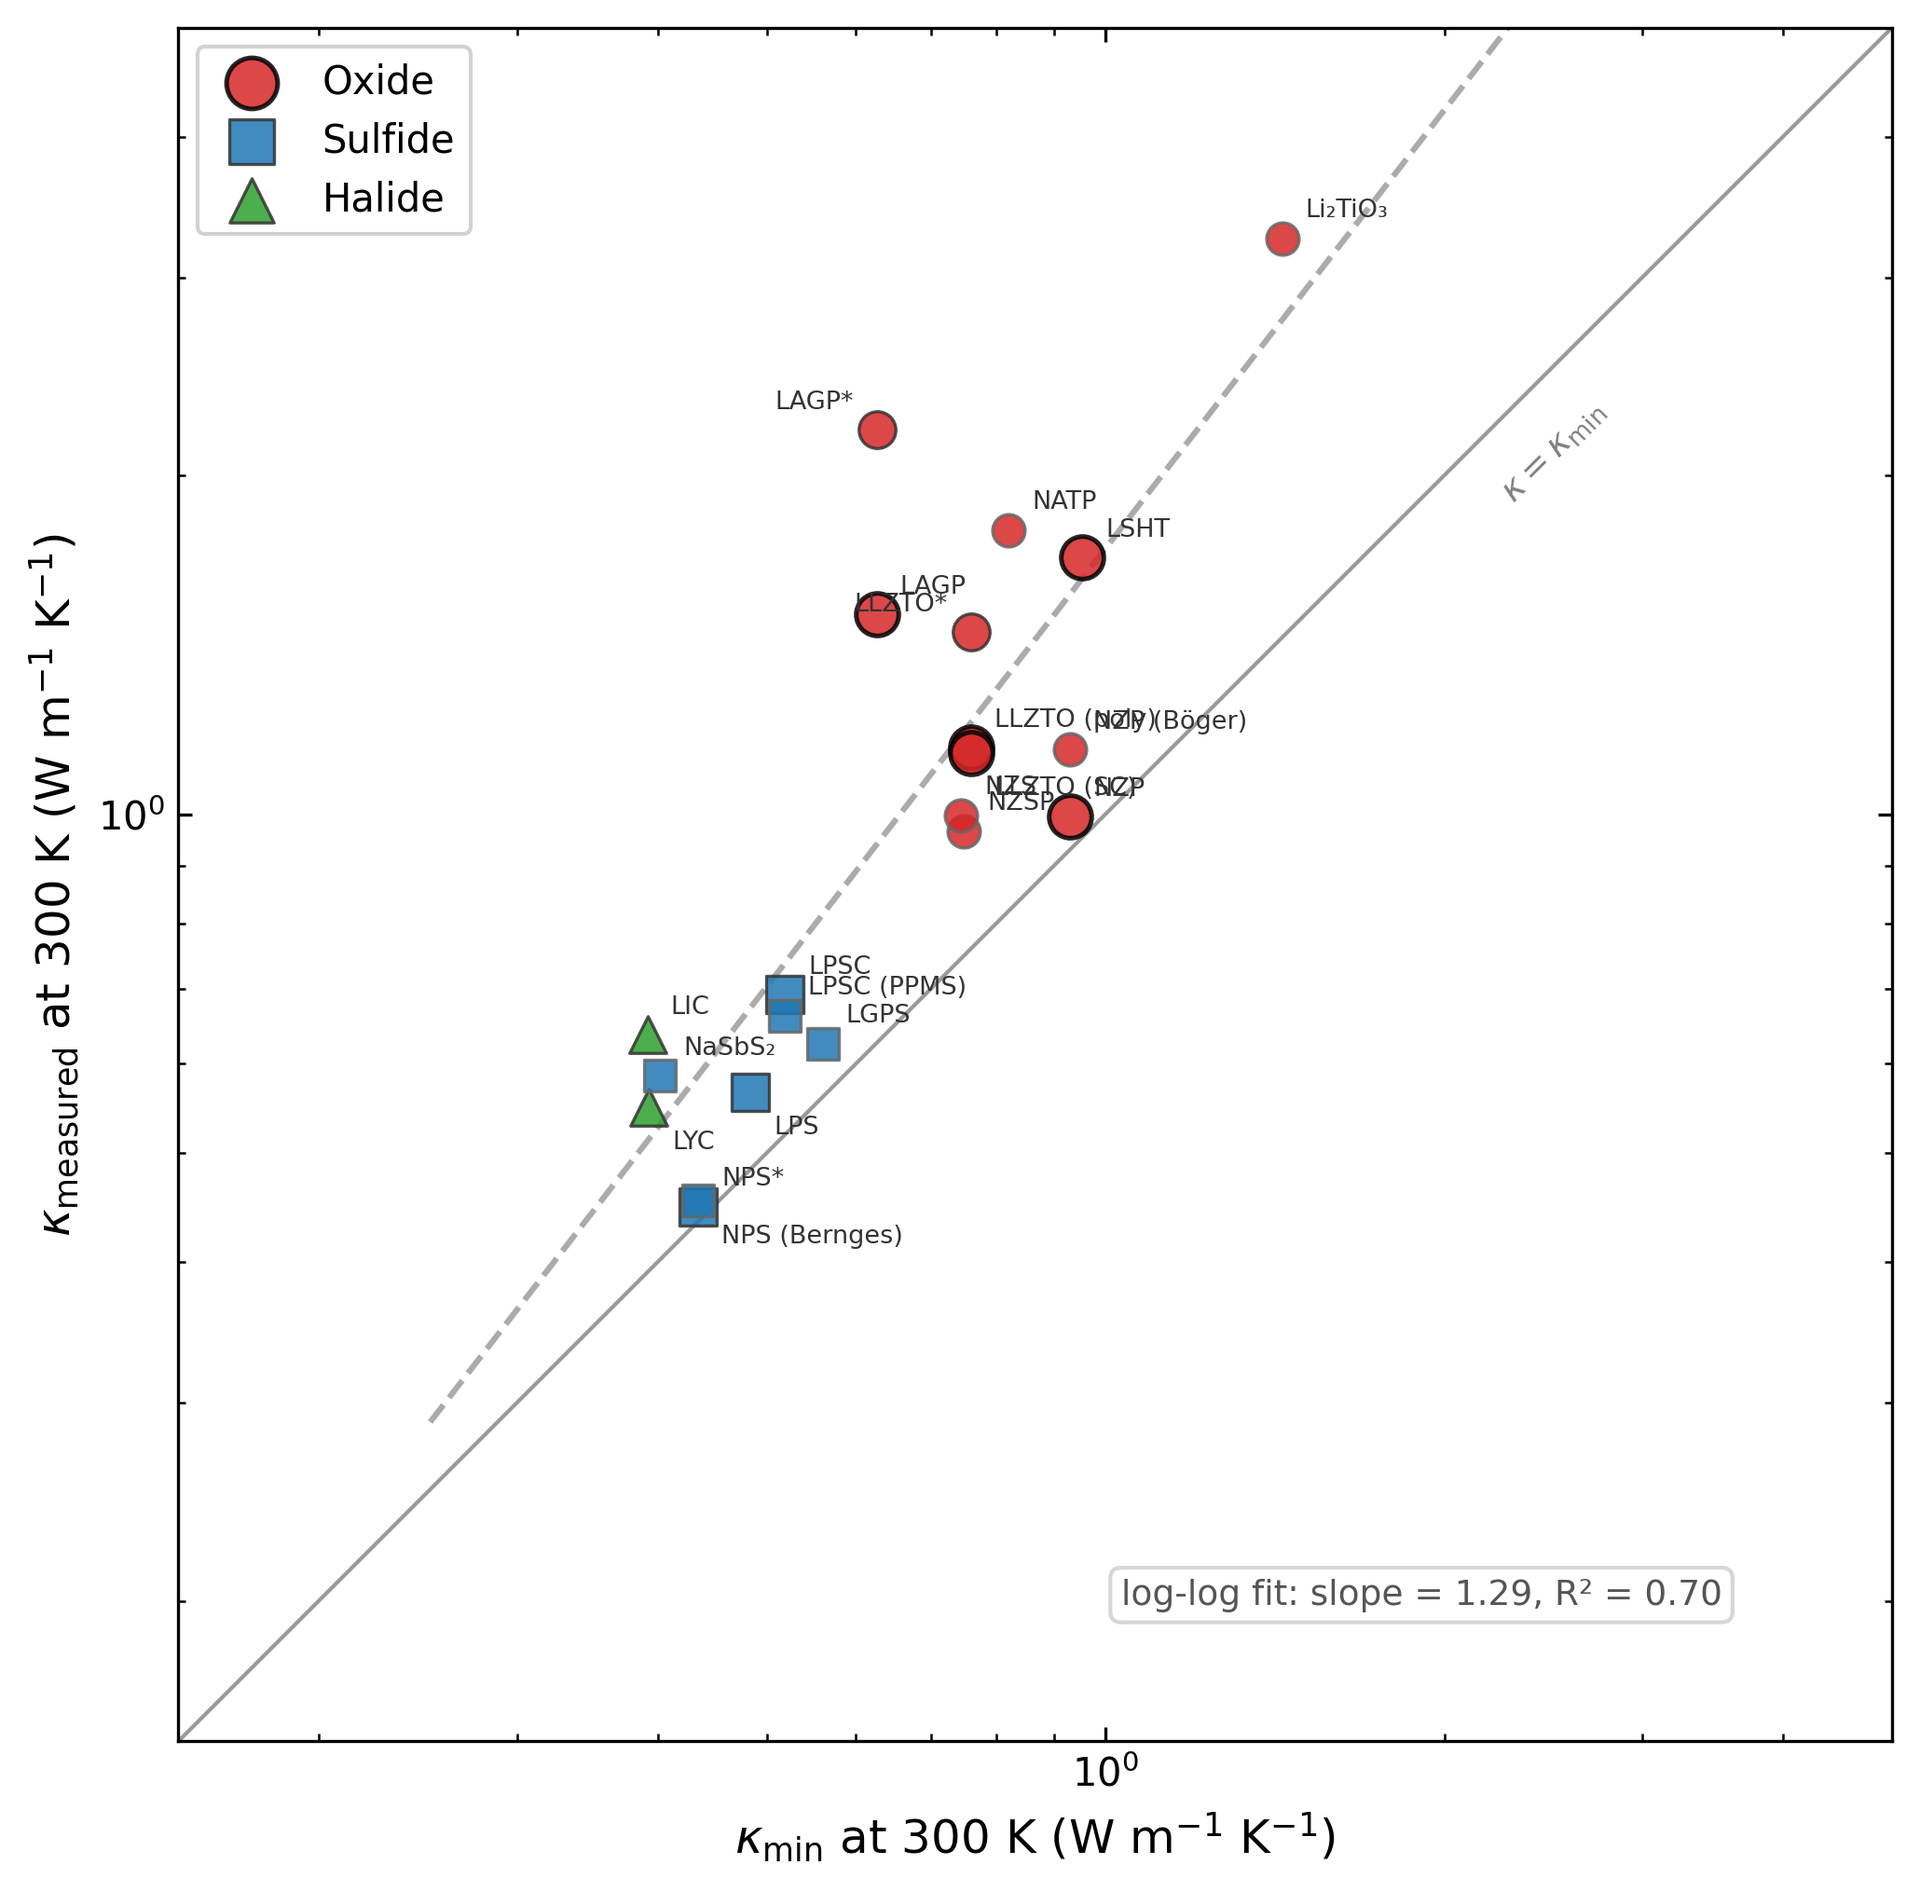
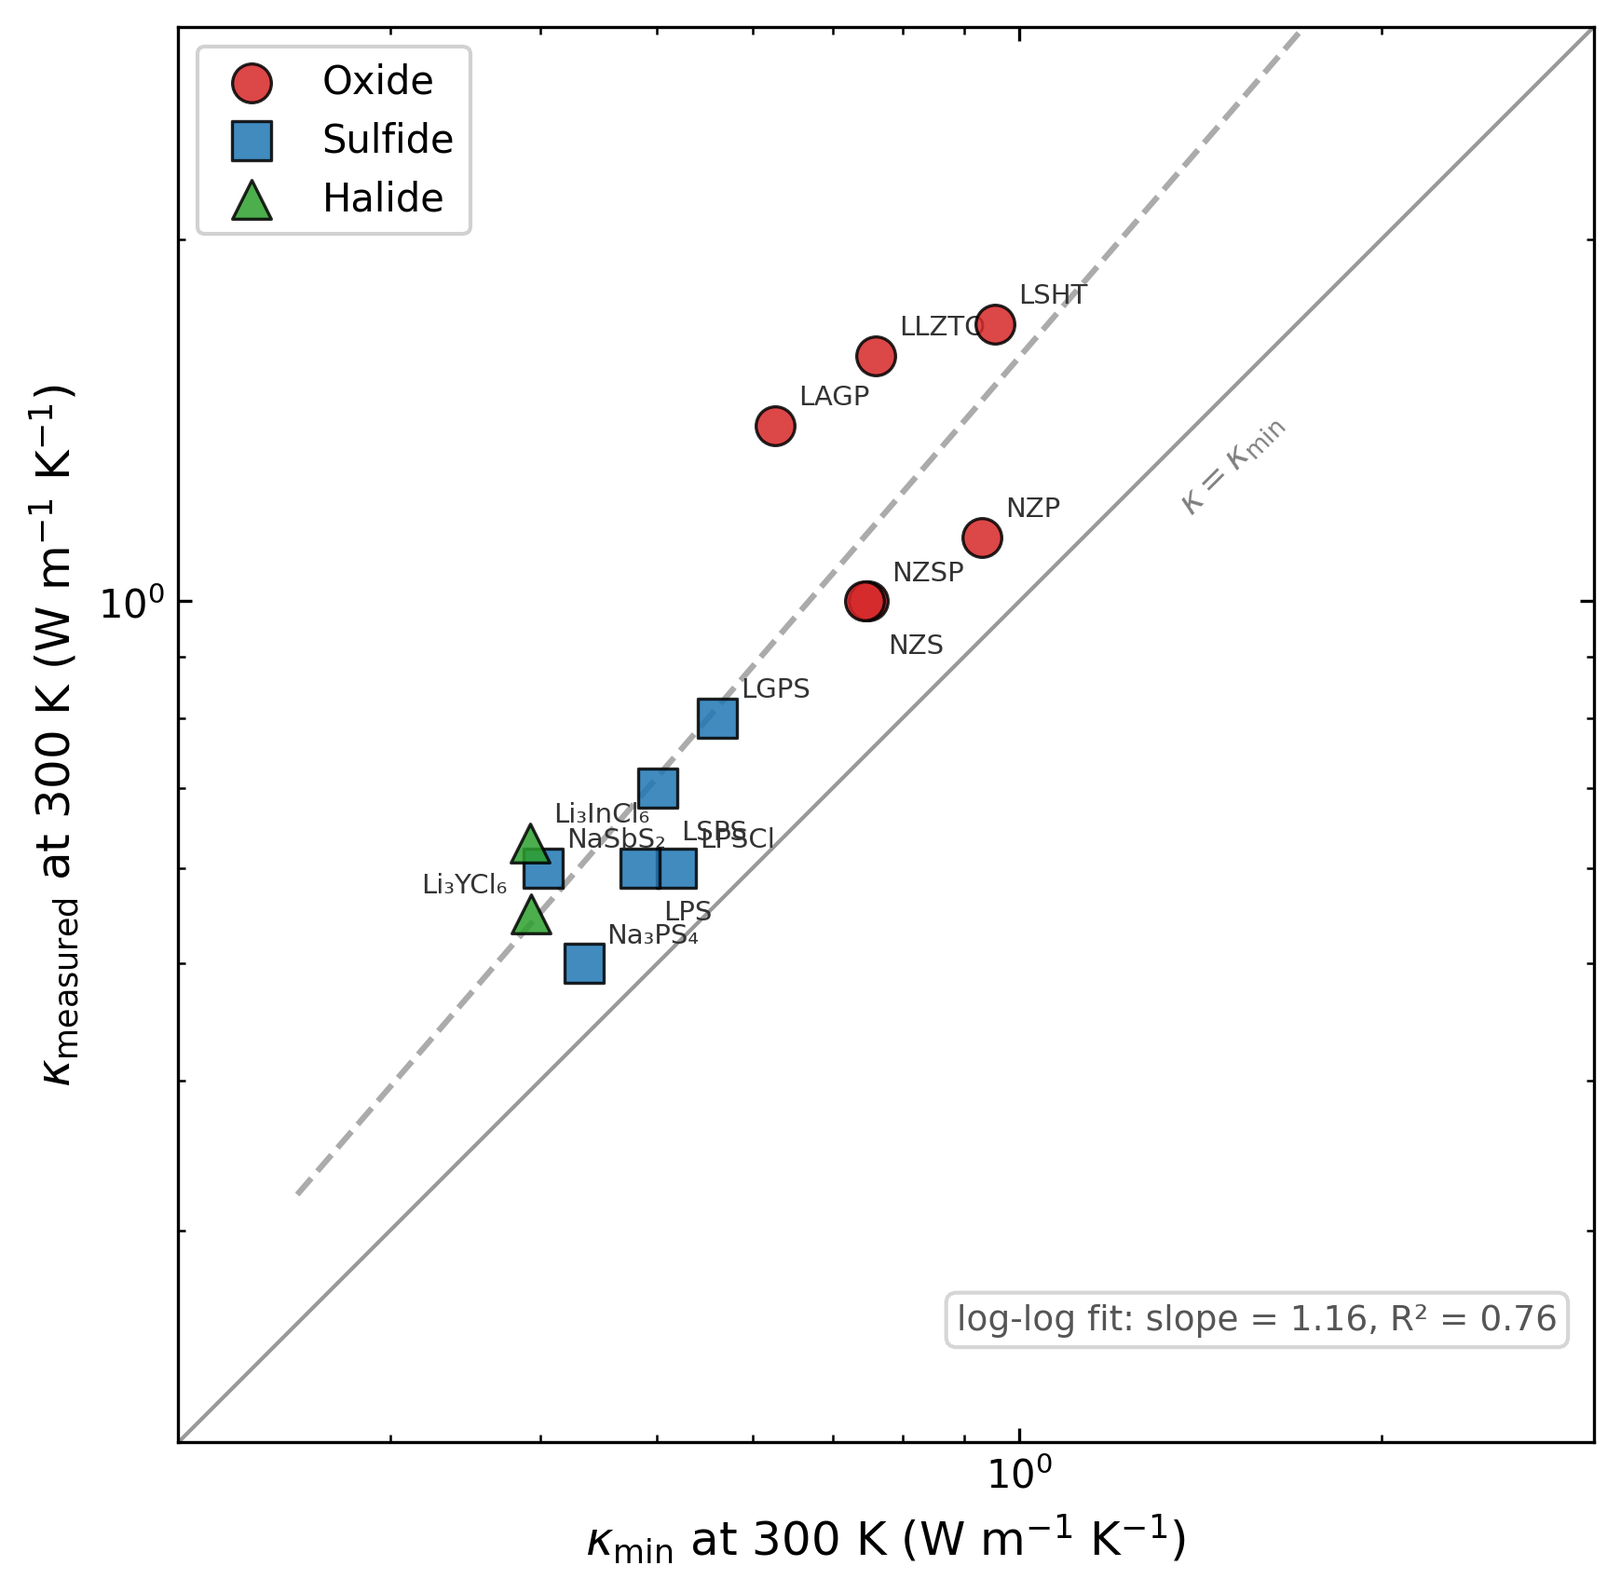
Fix κ_min vs κ_measured plot for paper consistency
Issues fixed (flagged by researcher agent):
- Use authoritative paper table values (ver7_AIP_APR.tex Table I)
  instead of CSV interpolation
- Remove duplicate entries (was: NZP + NZP Böger, LPSC + LPSC PPMS,
  NPS + NPS Bernges) → one entry per material
- Consistent naming with paper table format
- 14 materials (6 oxide, 6 sulfide, 2 halide)

Updated results:
- R² = 0.76 (improved from 0.70 with cleaner data)
- Slope = 1.16 (all materials above κ_min)
- Na₃PS₄ closest to glass limit (ratio 1.15)
- LAGP furthest above (ratio 2.24)

diff --git a/examples/kappa_min_vs_kappa_300K.py b/examples/kappa_min_vs_kappa_300K.py
@@ -4,6 +4,9 @@
 
 Recreates Figure 6 from Cheng et al., Small 17, 2101693 (2021),
 extended with additional oxide/sulfide/halide solid electrolyte data.
+
+κ_measured values are from the authoritative paper table (ver7_AIP_APR.tex)
+to ensure figure-table consistency for peer review.
 """
 
 import sys
@@ -21,19 +24,8 @@ from scipy import stats
 from MatSciKit_COSMOTIM.thermal_conductivity import cahill
 from MatSciKit_COSMOTIM.structure.material import estimate_debye_temperature, estimate_n_density
 
-DATA = Path("/Users/cosmotim/Documents/SE thermal review")
-EXPORT = DATA / "TC of SE/TTO Plot/Export_Data"
-CHENG = DATA / "Data"
 
-
-def interp_300K(T, kappa):
-    """Interpolate κ at 300 K."""
-    idx = np.argsort(T)
-    T, kappa = T[idx], kappa[idx]
-    return float(np.interp(300, T, kappa))
-
-
-def kmin_300K(density, avg_mass, v_avg, theta_D=None, V=None, N=None, M_amu=None):
+def kmin_300K(density, avg_mass, v_avg, theta_D=None, V=None, N=None):
     """Compute Cahill κ_min at 300 K."""
     if V is not None:
         n = N / V
@@ -44,149 +36,105 @@ def kmin_300K(density, avg_mass, v_avg, theta_D=None, V=None, N=None, M_amu=None
     return cahill.minimum_tc(300.0, n, theta, v_avg)
 
 
-def load_kappa_300(filepath, col_T=0, col_k=1):
-    """Load CSV and interpolate at 300 K."""
-    data = np.loadtxt(str(filepath), delimiter=',')
-    return interp_300K(data[:, col_T], data[:, col_k])
-
-
 # ═══════════════════════════════════════════════════════════════════════
-# Material database: name, category, source, κ_measured(300K), κ_min params
+# Material database — authoritative κ_measured values from paper table
+# (ver7_AIP_APR.tex, Table I)
 # ═══════════════════════════════════════════════════════════════════════
 
 materials = []
 
-def add(name, cat, source, kappa_meas, density, avg_mass, v_avg, theta_D=None, **kw):
+def add(name, cat, kappa_meas, ref, density, avg_mass, v_avg,
+        theta_D=None, **kw):
     km = kmin_300K(density, avg_mass, v_avg, theta_D, **kw)
-    materials.append({'name': name, 'category': cat, 'source': source,
-                      'kappa_meas': kappa_meas, 'kappa_min': km})
+    materials.append({
+        'name': name, 'category': cat, 'kappa_meas': kappa_meas,
+        'kappa_min': km, 'ref': ref,
+    })
 
 
-# ─── Our data (PPMS/LFA) ───────────────────────────────────────────────
+# ─── Oxides ─────────────────────────────────────────────────────────────
 
-# LSHT (from Pipeline 1 fit)
+# LAGP — Rohde 2020
+add('LAGP', 'oxide', 1.4, 'Rohde 2020',
+    density=3090, avg_mass=28.95, v_avg=2430)
+
+# NZP — Böger 2023
+add('NZP', 'oxide', 1.13, 'Böger 2023',
+    density=3800, avg_mass=24.46, v_avg=2900)
+
+# NZSP — Wang 2025
+add('NZSP', 'oxide', 1.0, 'Wang 2025',
+    density=3400, avg_mass=28.0, v_avg=2700)
+
+# NZS — Böger 2023
+add('NZS', 'oxide', 1.0, 'Böger 2023',
+    density=3300, avg_mass=26.0, v_avg=2600)
+
+# LLZTO — Wang 2025 (SC, intrinsic)
+add('LLZTO', 'oxide', 1.6, 'Wang 2025',
+    density=5100, avg_mass=37.87, v_avg=2550)
+
+# LSHT — Wang 2025 (our PRX Energy paper)
 V_lsht = 3.98e-10 ** 3
 N_lsht = 3/8 + 7/16 + 1/4 + 3/4 + 3
-M_lsht = 6.941*3/8 + 87.62*7/16 + 178.49*1/4 + 180.95*3/4 + 15.999*3
-add('LSHT', 'oxide', 'This work',
-    load_kappa_300(EXPORT / 'LSHT_LFA.csv'),
-    None, None, 3461.3, 437.14, V=V_lsht, N=N_lsht)
+add('LSHT', 'oxide', 1.7, 'Wang 2025',
+    density=None, avg_mass=None, v_avg=3461.3, theta_D=437.14,
+    V=V_lsht, N=N_lsht)
 
-# LAGP (our LFA)
-add('LAGP', 'oxide', 'This work',
-    load_kappa_300(EXPORT / 'LAGP_LFA.csv'),
-    3090, 28.95, 2430)
+# ─── Sulfides ───────────────────────────────────────────────────────────
 
-# NZP (our LFA)
-add('NZP', 'oxide', 'This work',
-    load_kappa_300(EXPORT / 'NZP_LFA.csv'),
-    3800, 24.46, 2900)
+# LGPS — Böger 2023
+add('LGPS', 'sulfide', 0.8, 'Böger 2023',
+    density=2900, avg_mass=24.32, v_avg=2000)
 
-# LLZTO poly (our LFA)
-add('LLZTO (poly)', 'oxide', 'This work',
-    load_kappa_300(EXPORT / 'LLZTO poly_LFA.csv'),
-    5100, 37.87, 2550)
+# Li₁₀SnP₂S₁₂ — Bron 2013
+add('LSPS', 'sulfide', 0.7, 'Bron 2013',
+    density=2700, avg_mass=25.0, v_avg=1900)
 
-# LLZTO SC (our LFA)
-add('LLZTO (SC)', 'oxide', 'This work',
-    load_kappa_300(EXPORT / 'LLZTO SC_LFA.csv'),
-    5100, 37.87, 2550)
+# LPSCl — Böger 2023
+add('LPSCl', 'sulfide', 0.6, 'Böger 2023',
+    density=2400, avg_mass=26.05, v_avg=2200)
 
-# ─── Cheng et al. (TDTR) ───────────────────────────────────────────────
+# 3(Li₂S)-P₂S₅ — Cheng 2021
+add('LPS', 'sulfide', 0.6, 'Cheng 2021',
+    density=1900, avg_mass=20.0, v_avg=2000)
 
-add('LAGP*', 'oxide', 'Cheng 2021',
-    load_kappa_300(CHENG / 'LAGP_Cheng.csv'),
-    3090, 28.95, 2430)
+# Na₃PS₄ — Cheng/Bernges
+add('Na₃PS₄', 'sulfide', 0.5, 'Cheng/Bernges',
+    density=2500, avg_mass=28.78, v_avg=1900)
 
-add('LLZTO*', 'oxide', 'Cheng 2021',
-    load_kappa_300(CHENG / 'LLZTO_ZheCheng.csv'),
-    5100, 37.87, 2550)
+# NaSbS₂ — Gunatilleke 2023
+add('NaSbS₂', 'sulfide', 0.6, 'Gunatilleke 2023',
+    density=4200, avg_mass=38.43, v_avg=1500)
 
-add('LPSC', 'sulfide', 'Cheng 2021',
-    load_kappa_300(CHENG / 'LPSC_ZheCheng.csv'),
-    2400, 26.05, 2200)
+# ─── Halides ────────────────────────────────────────────────────────────
 
-add('LPS', 'sulfide', 'Cheng 2021',
-    load_kappa_300(CHENG / 'LPS_ZheCheng.csv'),
-    1900, 20.0, 2000)
+# Li₃InCl₆ — Cheng 2021
+add('Li₃InCl₆', 'halide', 0.63, 'Cheng 2021',
+    density=2700, avg_mass=33.62, v_avg=1800)
 
-add('NPS*', 'sulfide', 'Cheng 2021',
-    load_kappa_300(CHENG / 'NPS_ZheCheng.csv'),
-    2500, 28.78, 1900)
-
-add('LIC', 'halide', 'Cheng 2021',
-    load_kappa_300(CHENG / 'LIC.csv'),
-    2700, 33.62, 1800)
-
-add('LYC', 'halide', 'Cheng 2021',
-    load_kappa_300(CHENG / 'LYC.csv'),
-    2600, 32.26, 1800)
-
-# ─── Other literature data ─────────────────────────────────────────────
-
-# LGPS
-add('LGPS', 'sulfide', 'Literature',
-    load_kappa_300(CHENG / 'LGPS.csv'),
-    2900, 24.32, 2000)
-
-# LPSC (our PPMS)
-add('LPSC (PPMS)', 'sulfide', 'Literature',
-    load_kappa_300(CHENG / 'LPSC.csv'),
-    2400, 26.05, 2200)
-
-# NPS (Bernges)
-add('NPS (Bernges)', 'sulfide', 'Literature',
-    load_kappa_300(CHENG / 'NPS_Bernges.csv'),
-    2500, 28.78, 1900)
-
-# NZSP
-add('NZSP', 'oxide', 'Literature',
-    load_kappa_300(CHENG / 'NZSP.csv'),
-    3400, 28.0, 2700)
-
-# NATP (NaTi₂(PO₄)₃)
-add('NATP', 'oxide', 'Literature',
-    load_kappa_300(CHENG / 'NATP.csv'),
-    3200, 24.0, 2800)
-
-# Li₂TiO₃
-add('Li₂TiO₃', 'oxide', 'Literature',
-    load_kappa_300(CHENG / 'Li2TiO3.csv'),
-    3430, 16.35, 4000)
-
-# NaSbS₂
-add('NaSbS₂', 'sulfide', 'Literature',
-    load_kappa_300(CHENG / 'NaSbS2.csv'),
-    4200, 38.43, 1500)
-
-# NZP (Boger)
-add('NZP (Böger)', 'oxide', 'Literature',
-    load_kappa_300(CHENG / 'NZP_Boger.csv'),
-    3800, 24.46, 2900)
-
-# NZS (Boger) — Na₄Zr₂(SiO₄)₃
-add('NZS', 'oxide', 'Literature',
-    load_kappa_300(CHENG / 'NZS_Boger.csv'),
-    3300, 26.0, 2600)
+# Li₃YCl₆ — Cheng 2021
+add('Li₃YCl₆', 'halide', 0.55, 'Cheng 2021',
+    density=2600, avg_mass=32.26, v_avg=1800)
 
 
 # ═══════════════════════════════════════════════════════════════════════
 # Print results table
 # ═══════════════════════════════════════════════════════════════════════
 
-print(f"\n{'Material':20s} {'Category':10s} {'Source':15s} {'κ_min':>8s} {'κ_meas':>8s} {'Ratio':>6s}")
+print(f"\n{'Material':15s} {'Category':10s} {'Reference':20s} {'κ_min':>8s} {'κ_meas':>8s} {'Ratio':>6s}")
 print('-' * 72)
 for m in sorted(materials, key=lambda x: x['kappa_meas']/x['kappa_min']):
     ratio = m['kappa_meas'] / m['kappa_min']
-    print(f"{m['name']:20s} {m['category']:10s} {m['source']:15s} "
-          f"{m['kappa_min']:8.3f} {m['kappa_meas']:8.3f} {ratio:6.2f}")
+    print(f"{m['name']:15s} {m['category']:10s} {m['ref']:20s} "
+          f"{m['kappa_min']:8.3f} {m['kappa_meas']:8.2f} {ratio:6.2f}")
 
 
 # ═══════════════════════════════════════════════════════════════════════
 # Plot
 # ═══════════════════════════════════════════════════════════════════════
 
-fig, ax = plt.subplots(figsize=(7, 7))
+fig, ax = plt.subplots(figsize=(6, 6))
 
 # Diagonal: κ_meas = κ_min
 diag = np.linspace(0.1, 10, 100)
@@ -199,35 +147,30 @@ cat_style = {
     'halide':  {'color': '#2ca02c', 'marker': '^', 'label': 'Halide'},
 }
 
-# Marker size by source
-size_map = {'This work': 120, 'Cheng 2021': 90, 'Literature': 70}
-edge_map = {'This work': 'black', 'Cheng 2021': '#333', 'Literature': '#666'}
-
-# Plot each point
 plotted_cats = set()
 for m in materials:
     cs = cat_style[m['category']]
-    sz = size_map.get(m['source'], 70)
-    ec = edge_map.get(m['source'], 'gray')
-    lw = 1.2 if m['source'] == 'This work' else 0.8
 
     label = cs['label'] if m['category'] not in plotted_cats else None
     plotted_cats.add(m['category'])
 
     ax.scatter(m['kappa_min'], m['kappa_meas'], zorder=3,
-               c=cs['color'], marker=cs['marker'], edgecolors=ec,
-               s=sz, linewidths=lw, label=label, alpha=0.85)
+               c=cs['color'], marker=cs['marker'], edgecolors='black',
+               s=100, linewidths=0.8, label=label, alpha=0.85)
 
-    # Label
+    # Label positioning
     ha, va, ox, oy = 'left', 'bottom', 6, 4
-    if m['name'] in ('LLZTO (SC)', 'LYC', 'NPS (Bernges)', 'LPS'):
-        va, oy = 'top', -6
-    if m['name'] in ('LAGP*', 'LLZTO*'):
+    # Avoid overlaps
+    if m['name'] in ('NZS', 'LPS'):
+        va, oy = 'top', -8
+    if m['name'] in ('Li₃YCl₆',):
         ha, ox = 'right', -6
+    if m['name'] in ('LSPS',):
+        va, oy = 'top', -8
 
     ax.annotate(m['name'], (m['kappa_min'], m['kappa_meas']),
                 textcoords="offset points", xytext=(ox, oy),
-                fontsize=6.5, ha=ha, va=va, color='#333')
+                fontsize=7, ha=ha, va=va, color='#333')
 
 # Linear fit in log space
 log_kmin = np.log10([m['kappa_min'] for m in materials])
@@ -248,15 +191,14 @@ ax.set_xlabel(r'$\kappa_{\min}$ at 300 K (W m$^{-1}$ K$^{-1}$)', fontsize=12)
 ax.set_ylabel(r'$\kappa_{\mathrm{measured}}$ at 300 K (W m$^{-1}$ K$^{-1}$)', fontsize=12)
 ax.set_xscale('log')
 ax.set_yscale('log')
-ax.set_xlim(0.15, 5)
-ax.set_ylim(0.15, 5)
+ax.set_xlim(0.2, 3)
+ax.set_ylim(0.2, 3)
 ax.set_aspect('equal')
 ax.tick_params(direction='in', which='both', top=True, right=True)
-ax.legend(fontsize=10, loc='upper left', framealpha=0.9,
-          edgecolor='#ccc', markerscale=1.2)
+ax.legend(fontsize=10, loc='upper left', framealpha=0.9, edgecolor='#ccc')
 
 # κ = κ_min annotation
-ax.text(2.5, 2.1, r'$\kappa = \kappa_{\min}$',
+ax.text(1.5, 1.3, r'$\kappa = \kappa_{\min}$',
         fontsize=9, color='gray', rotation=45, ha='center', va='center')
 
 plt.tight_layout()
